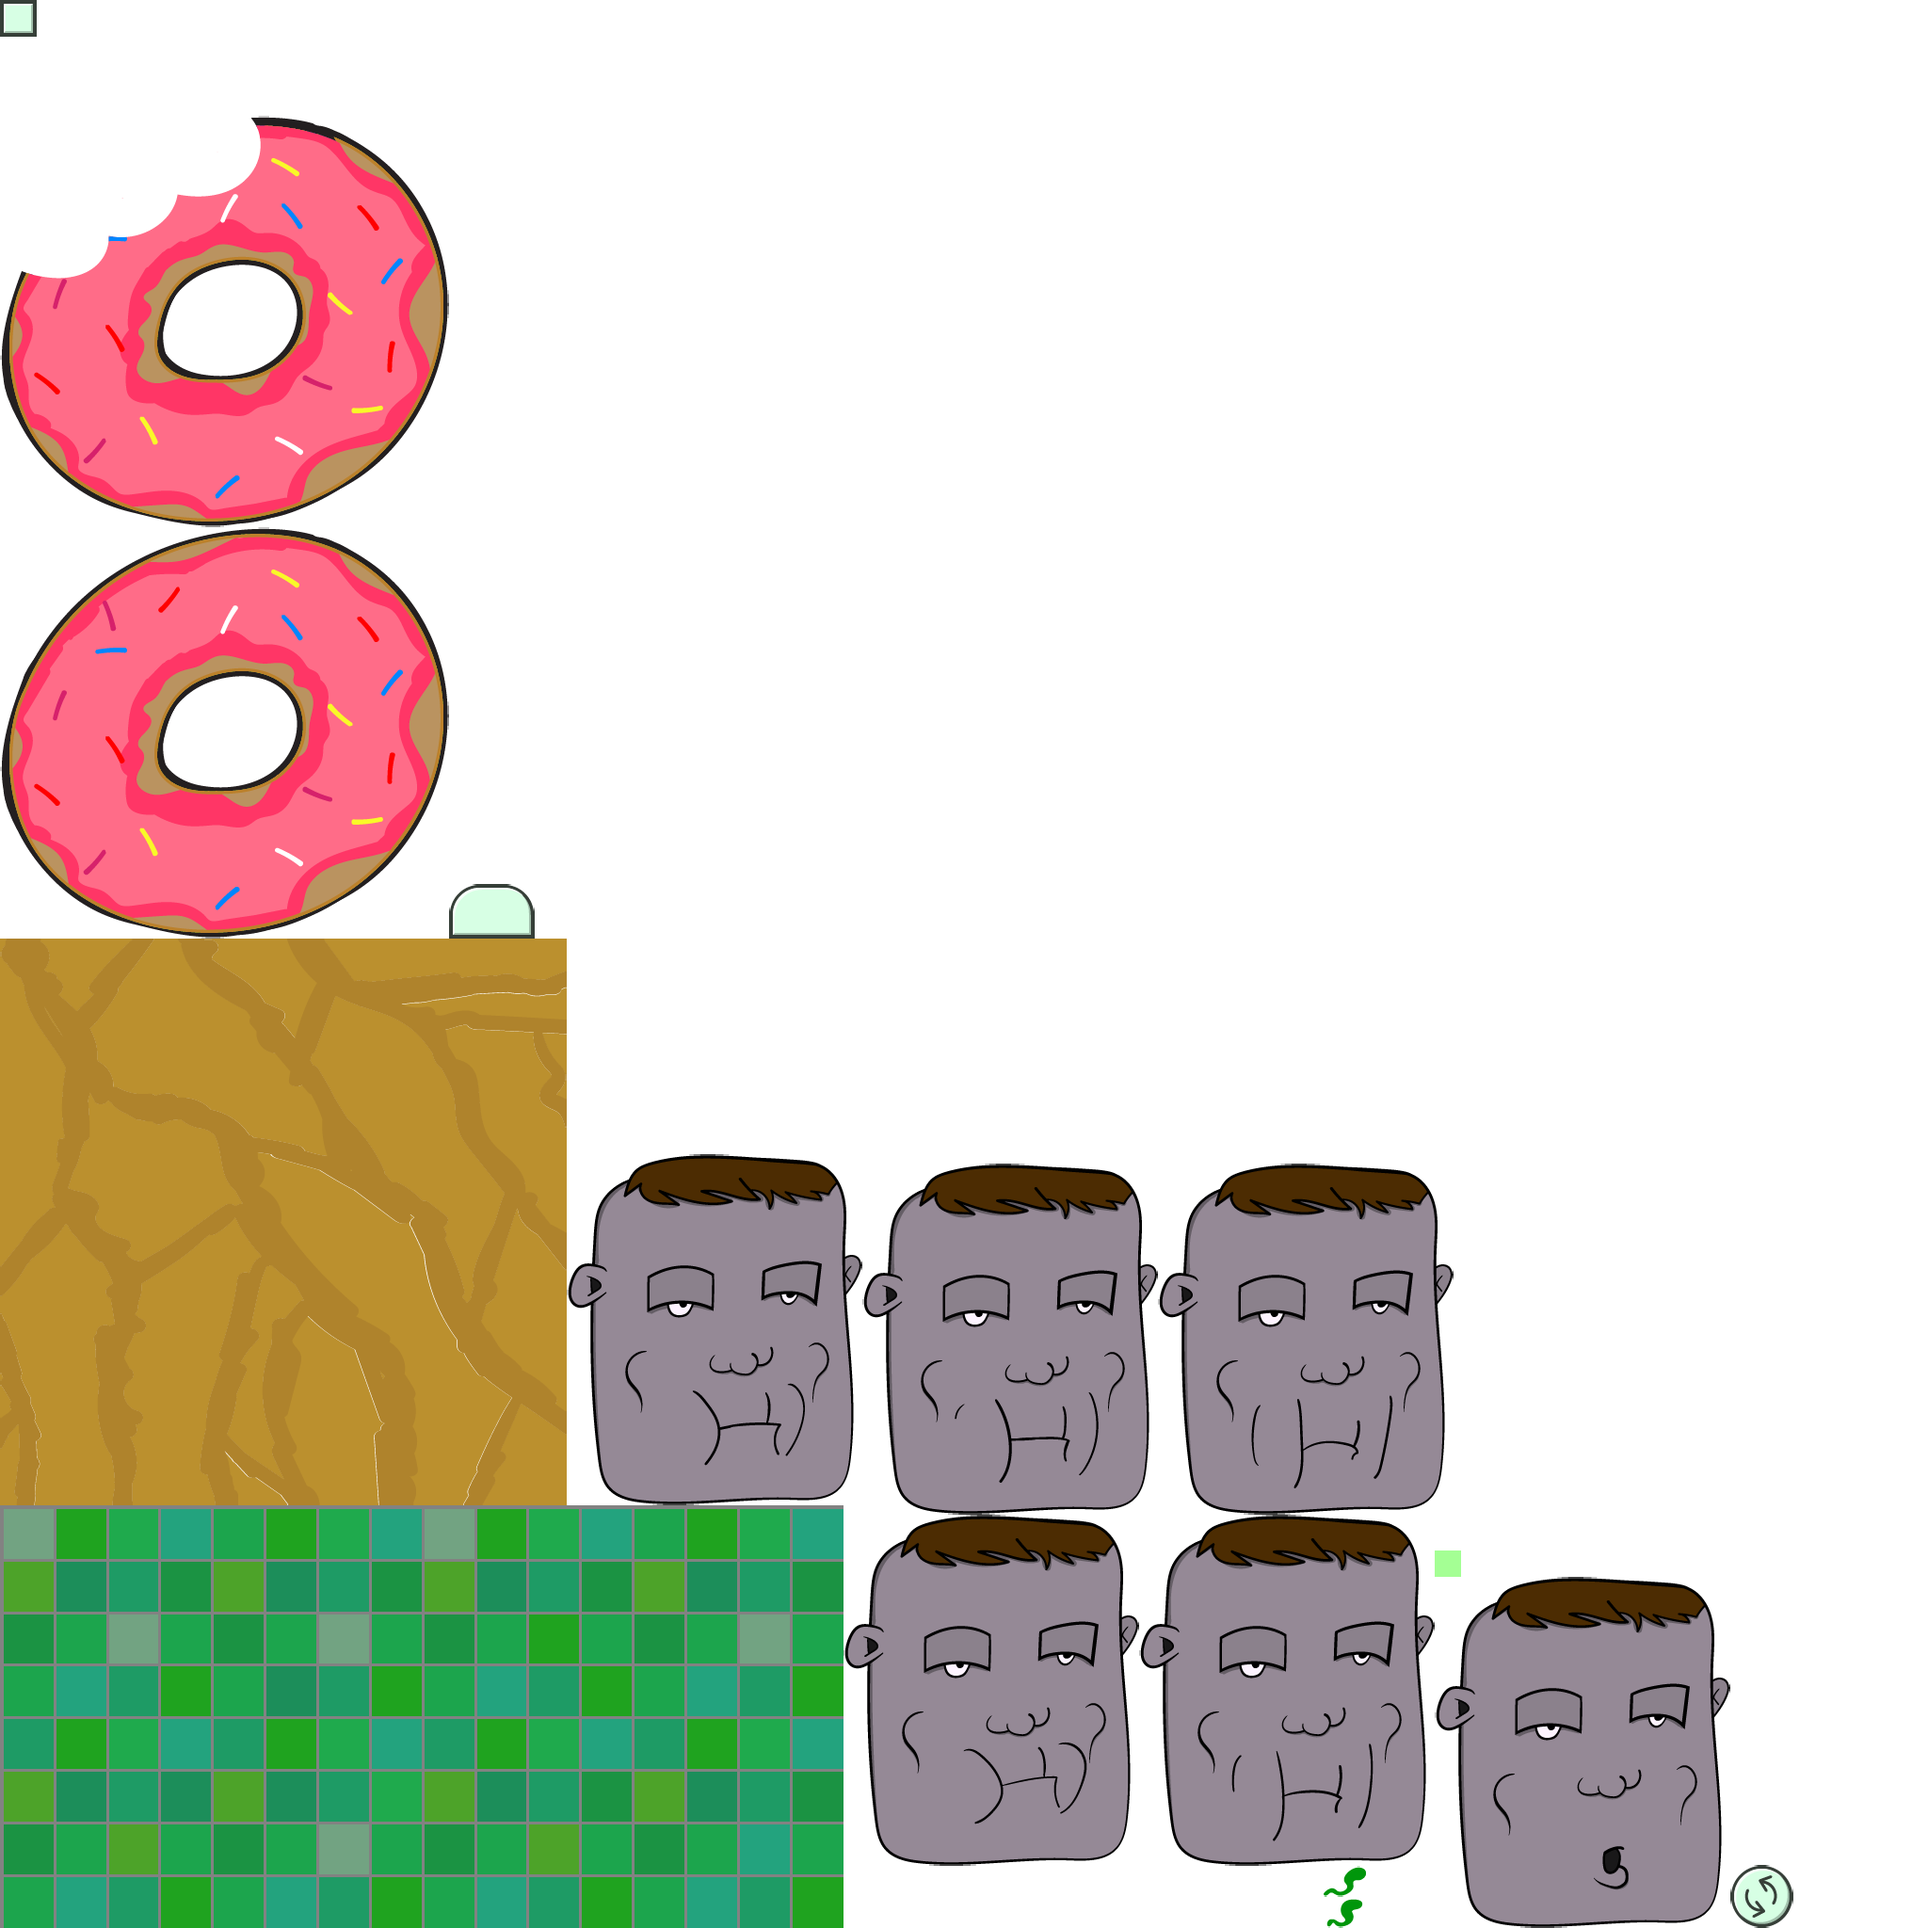
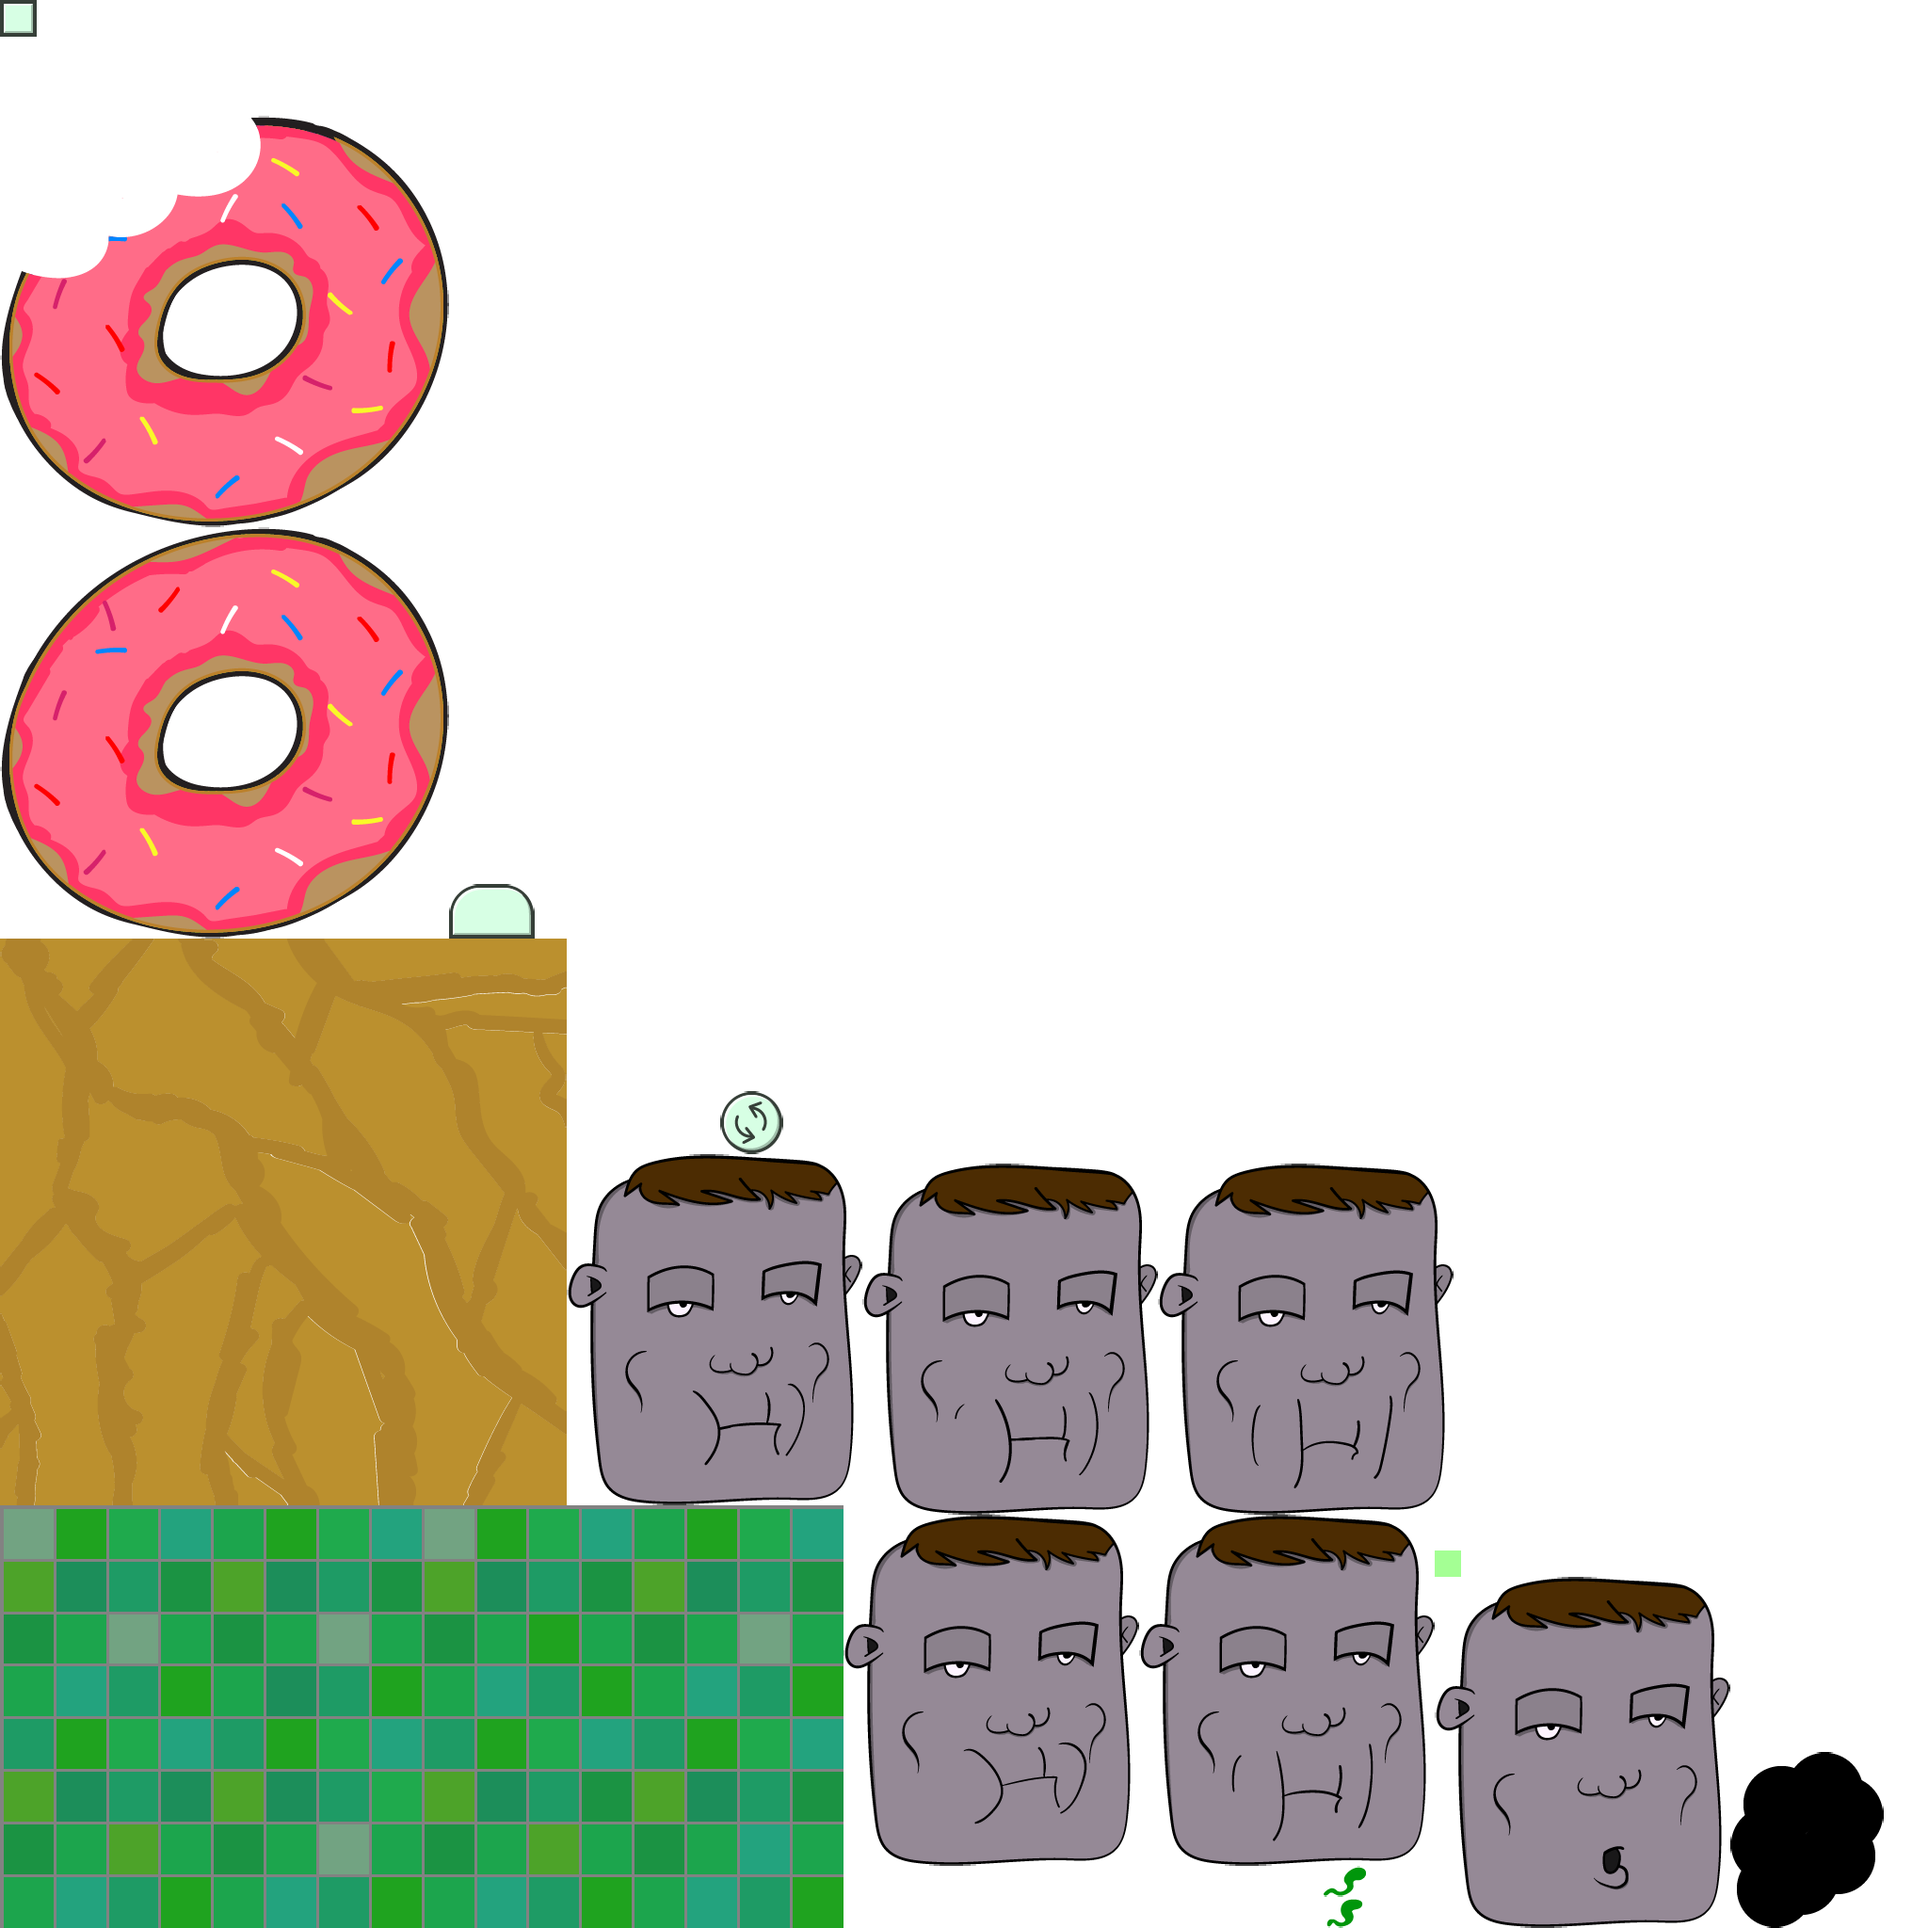
Switched to "bite-black" in BlendingModeTinting example.

Changed region(s): [[0.875, 0.9062, 1.0, 1.0], [0.375, 0.5625, 0.4062, 0.5938]]

diff --git a/core/src/main/java/com/ray3k/liftoff/TestBlendingModeTinting.java b/core/src/main/java/com/ray3k/liftoff/TestBlendingModeTinting.java
@@ -38,7 +38,7 @@ public class TestBlendingModeTinting implements Test {
     
         donutSprite = new Sprite(skin.getRegion("donut"));
         
-        mask = new Sprite(skin.getRegion("bite"));
+        mask = new Sprite(skin.getRegion("bite-black"));
         points = new Array<>();
         frameBuffer = new FrameBuffer(Format.RGBA4444, donutSprite.getRegionWidth(), donutSprite.getRegionHeight(), false);
         frameBufferViewport = new ScreenViewport();
